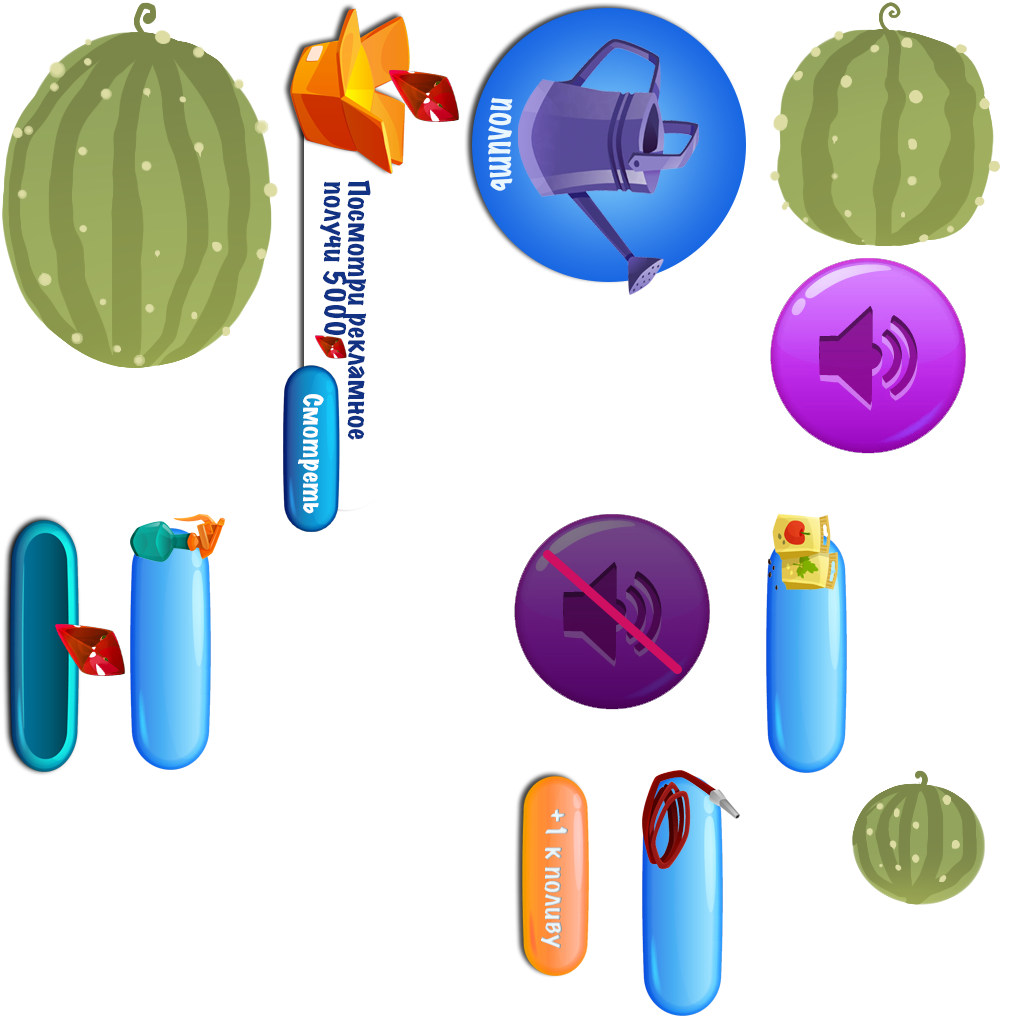
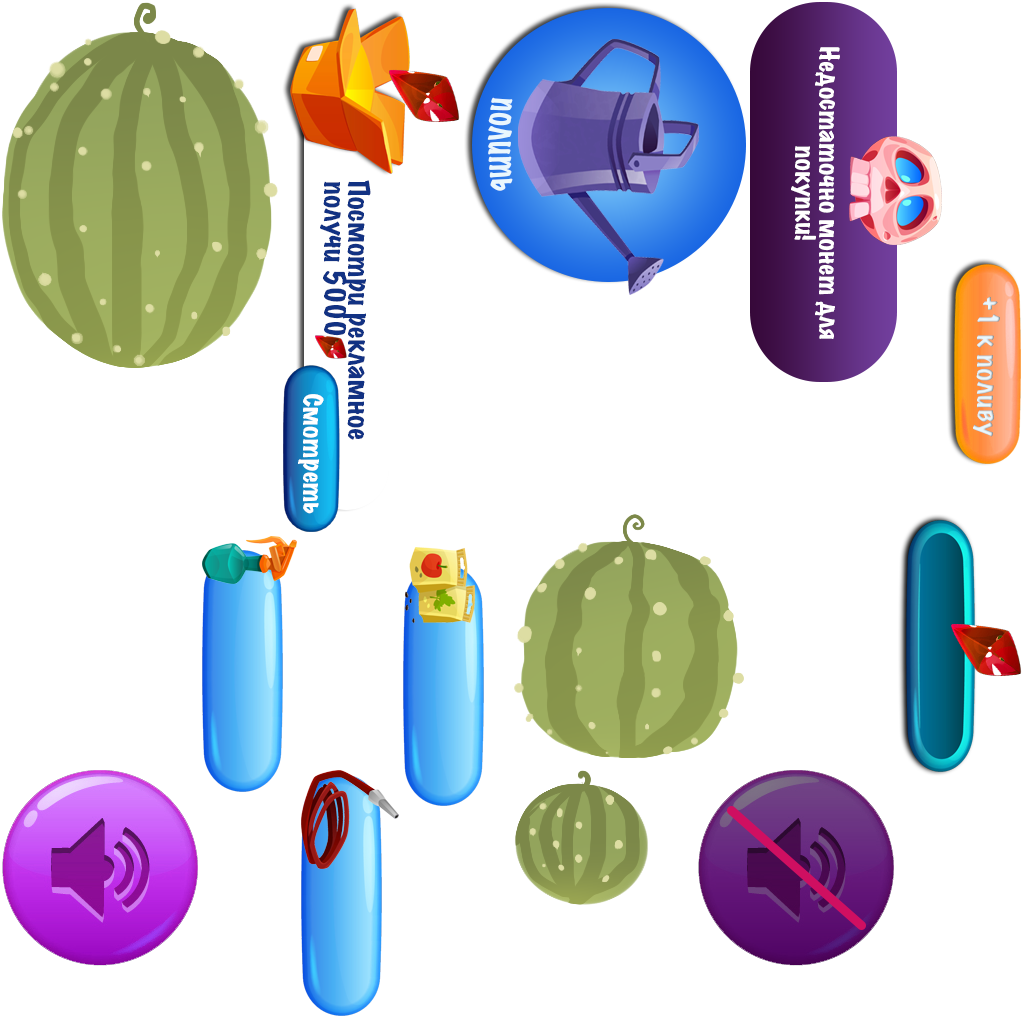
Add files via upload

diff --git a/scripts/c3runtime.js b/scripts/c3runtime.js
@@ -6978,6 +6978,7 @@ self.C3_GetObjectRefTable = function () {
 		C3.Plugins.VKBridge.Acts.Authorization,
 		C3.Plugins.Arr.Acts.SetX,
 		C3.Plugins.System.Acts.SetGroupActive,
+		C3.Plugins.Sprite.Acts.SetOpacity,
 		C3.Plugins.AJAX.Acts.Post,
 		C3.Plugins.VKBridge.Cnds.AppGetClientSuccess,
 		C3.Plugins.Text.Acts.SetText,
@@ -7012,7 +7013,6 @@ self.C3_GetObjectRefTable = function () {
 		C3.Plugins.VKBridge.Acts.ShowAds,
 		C3.Plugins.VKBridge.Acts.AdsMobile,
 		C3.Plugins.VKBridge.Cnds.AdsMobileSuccess,
-		C3.Plugins.Sprite.Acts.SetOpacity,
 		C3.Plugins.VKBridge.Cnds.ShowAdsSuccess,
 		C3.Plugins.Eponesh_GameScore.Acts.PlayerLoad,
 		C3.Plugins.VKBridge.Acts.AppGetClient,
@@ -7062,6 +7062,7 @@ self.C3_JsPropNameTable = [
 	{AJAX: 0},
 	{GameScore: 0},
 	{logo: 0},
+	{notMoney: 0},
 	{rubin: 0},
 	{Speedavtomaining: 0},
 	{avtomainingCost1: 0},
@@ -7270,6 +7271,10 @@ self.C3_ExpressionFuncs = [
 		() => 284,
 		() => 100,
 		() => "volume",
+		() => 205,
+		() => 72,
+		() => 210,
+		() => 77,
 		p => {
 			const n0 = p._GetNode(0);
 			const n1 = p._GetNode(1);
@@ -7283,10 +7288,10 @@ self.C3_ExpressionFuncs = [
 			const n0 = p._GetNode(0);
 			return () => add(n0.ExpObject(4), 750);
 		},
-		() => 205,
-		() => 72,
-		() => 210,
-		() => 77,
+		() => 250,
+		() => 92,
+		() => 258,
+		() => 97,
 		p => {
 			const n0 = p._GetNode(0);
 			const n1 = p._GetNode(1);
@@ -7300,10 +7305,10 @@ self.C3_ExpressionFuncs = [
 			const n0 = p._GetNode(0);
 			return () => add(n0.ExpObject(5), 450);
 		},
-		() => 250,
-		() => 92,
-		() => 258,
-		() => 97,
+		() => 257,
+		() => 78,
+		() => 261,
+		() => 83,
 		p => {
 			const n0 = p._GetNode(0);
 			const n1 = p._GetNode(1);
@@ -7317,10 +7322,9 @@ self.C3_ExpressionFuncs = [
 			const n0 = p._GetNode(0);
 			return () => add(n0.ExpObject(6), 1250);
 		},
-		() => 257,
-		() => 78,
-		() => 261,
-		() => 83,
+		() => 243,
+		() => 95,
+		() => 248,
 		p => {
 			const n0 = p._GetNode(0);
 			const n1 = p._GetNode(1);
@@ -7334,9 +7338,6 @@ self.C3_ExpressionFuncs = [
 			const n0 = p._GetNode(0);
 			return () => add(n0.ExpObject(7), 5250);
 		},
-		() => 243,
-		() => 95,
-		() => 248,
 		p => {
 			const n0 = p._GetNode(0);
 			return () => n0.ExpObject(9);
